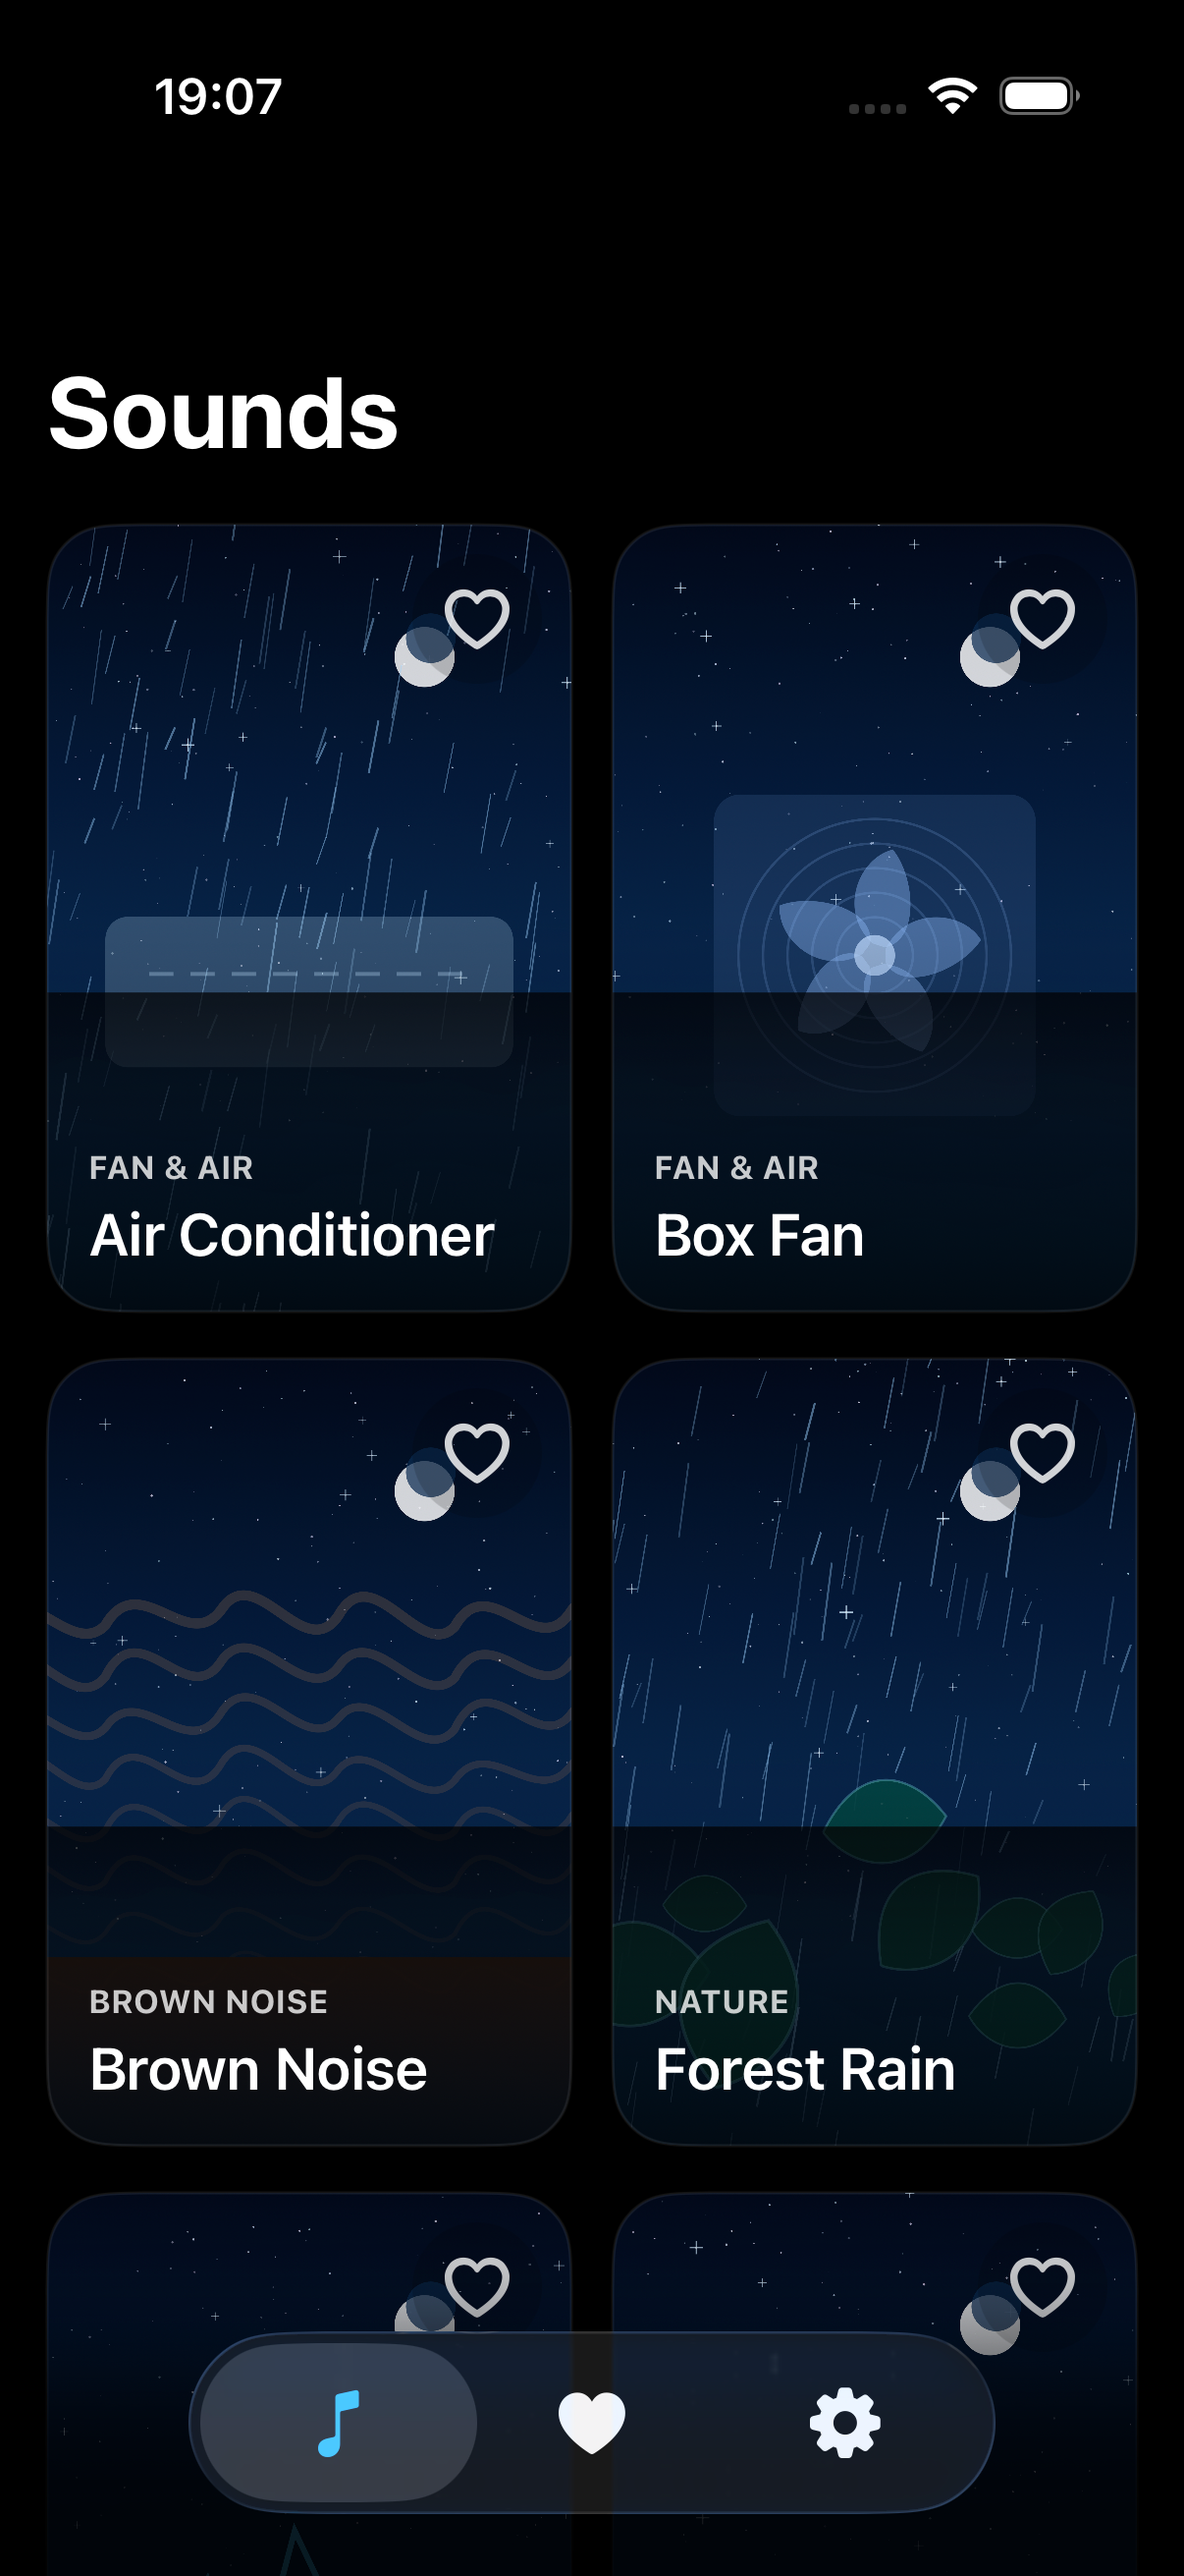
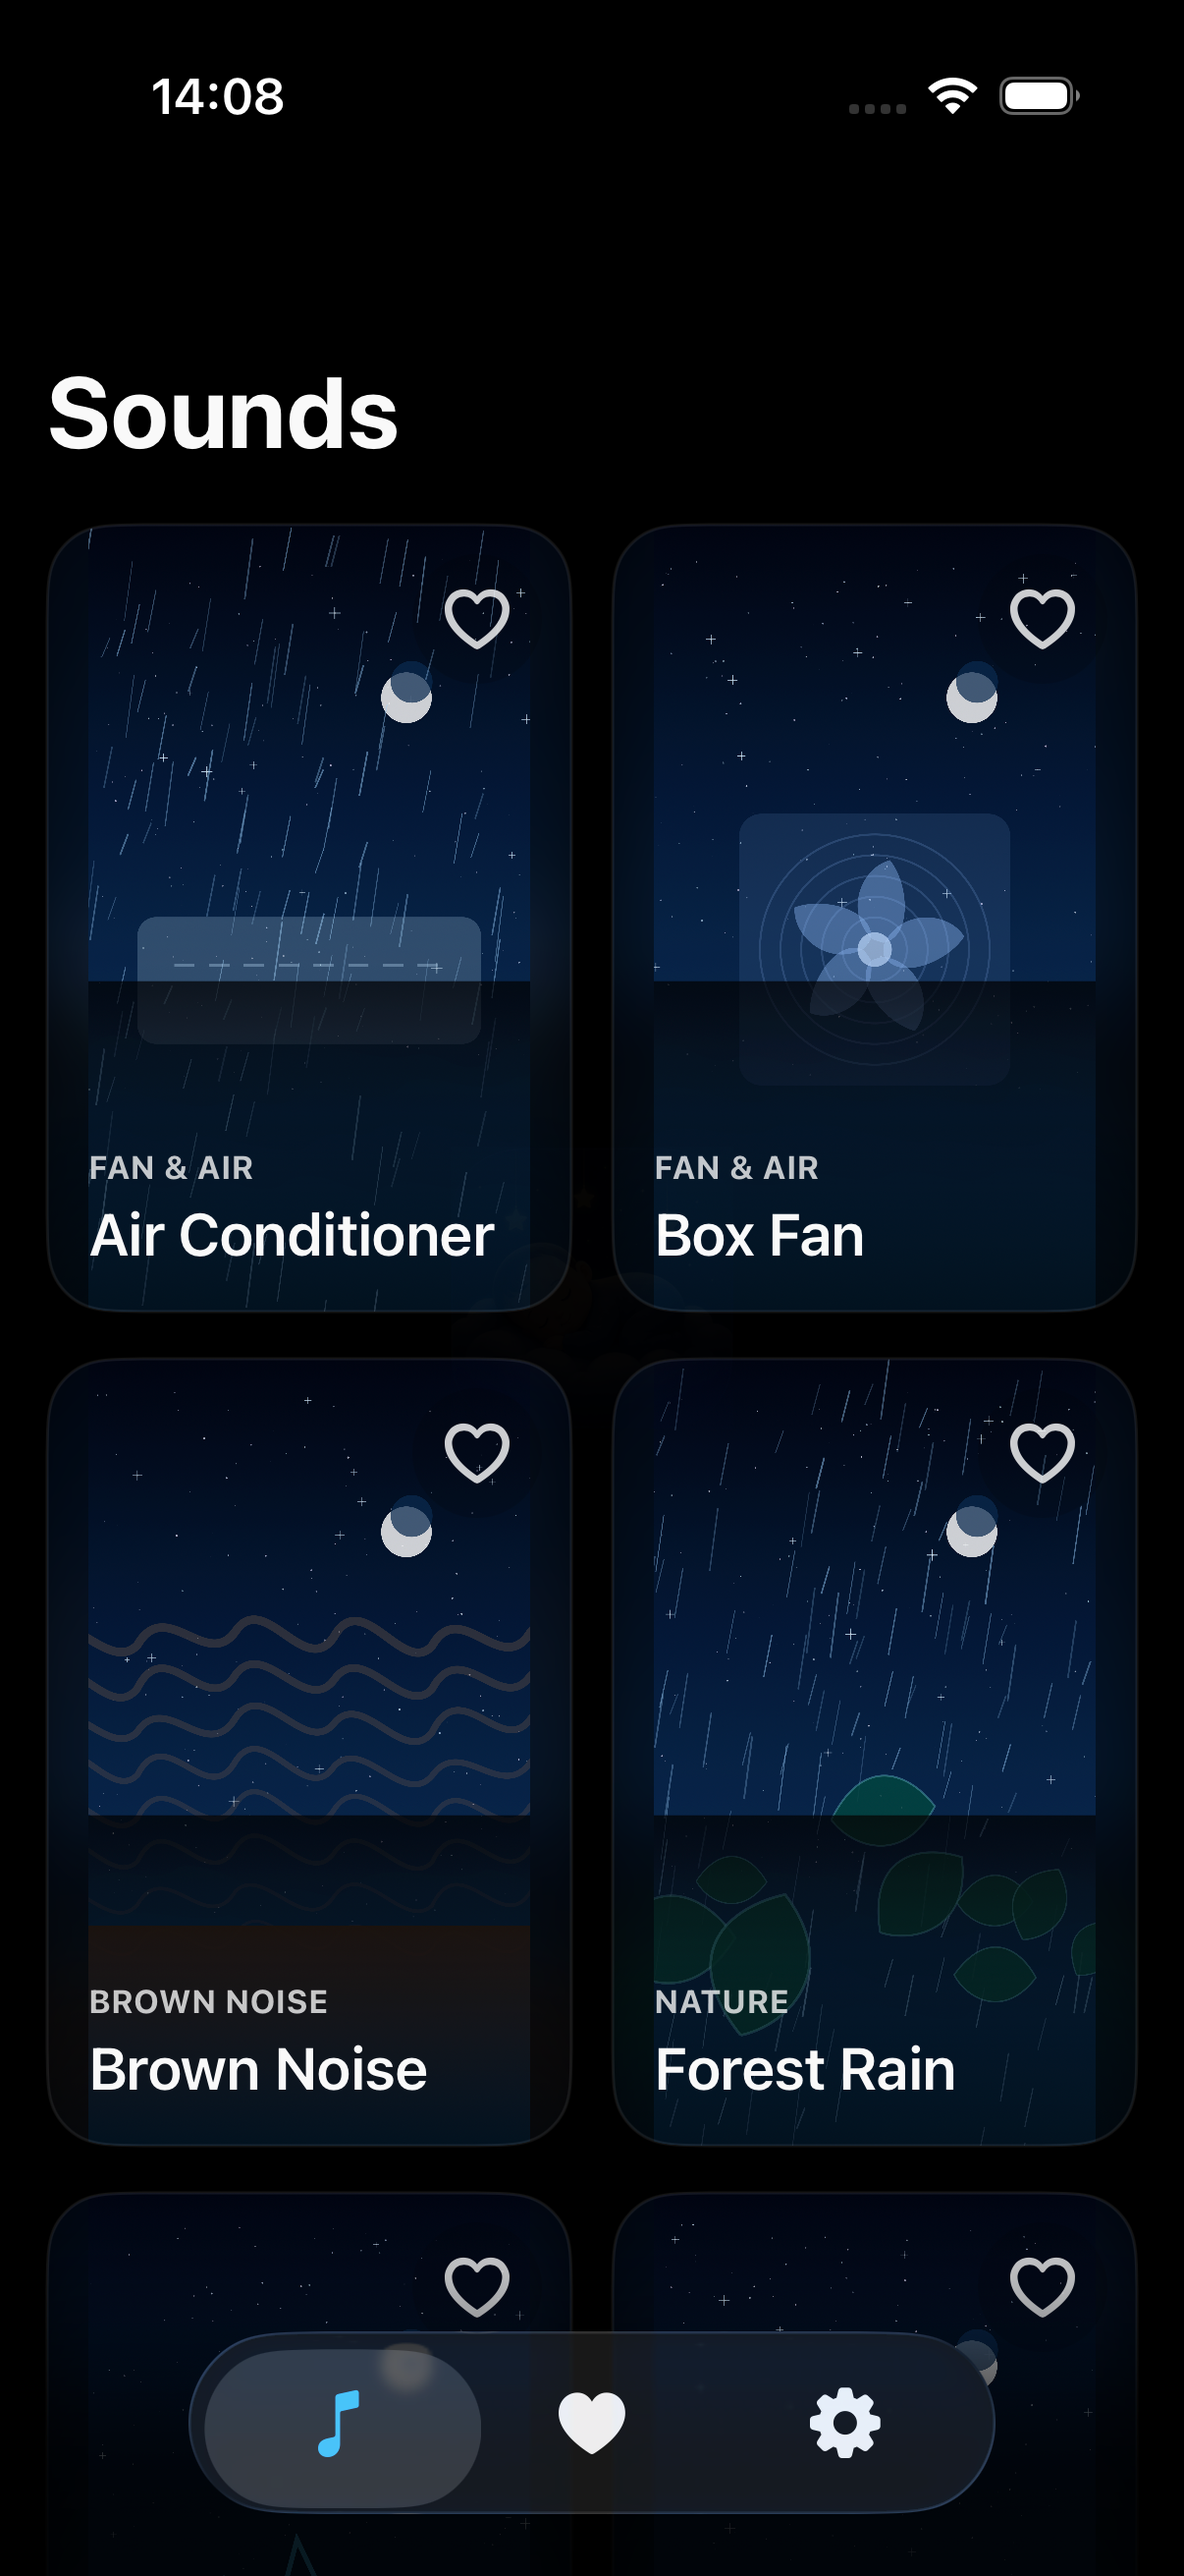
Polish artwork layout and onboarding screenshot

diff --git a/BabySoundsApp/ContentView.swift b/BabySoundsApp/ContentView.swift
@@ -81,10 +81,15 @@ struct ContentView: View {
     @StateObject private var premiumManager = PremiumManager.shared
     @StateObject private var favoritesManager = FavoritesManager.shared
     @AppStorage("HasCompletedOnboarding") private var hasCompletedOnboarding = false
+    @State private var selectedSound: RealSound?
+    @State private var showingPremiumSheet = false
 
     var body: some View {
         TabView {
-            SoundsView()
+            SoundsView(
+                onSelectSound: { selectedSound = $0 },
+                onPremiumRequired: { showingPremiumSheet = true }
+            )
                 .environmentObject(soundManager)
                 .environmentObject(premiumManager)
                 .tabItem {
@@ -92,7 +97,7 @@ struct ContentView: View {
                         .accessibilityLabel("Sounds")
                 }
 
-            FavoritesView()
+            FavoritesView(onSelectSound: { selectedSound = $0 })
                 .environmentObject(soundManager)
                 .environmentObject(premiumManager)
                 .environmentObject(favoritesManager)
@@ -110,11 +115,39 @@ struct ContentView: View {
                 }
         }
         .tint(AppTheme.accent)
+        .overlay(alignment: .bottom) {
+            if soundManager.currentSound != nil {
+                NowPlayingBar { sound in
+                    selectedSound = sound
+                }
+                .environmentObject(soundManager)
+                .padding(.bottom, 74)
+            }
+        }
         .onAppear {
             soundManager.initializeAudio()
         }
         .onOpenURL { url in
             soundManager.handleDeepLink(url)
+        }
+        .onReceive(soundManager.$deepLinkedSound.compactMap { $0 }) { sound in
+            if sound.premium, !premiumManager.isPremium {
+                showingPremiumSheet = true
+            } else {
+                selectedSound = sound
+            }
+            soundManager.deepLinkedSound = nil
+        }
+        .sheet(item: $selectedSound) { sound in
+            PlayerView(sound: sound)
+                .environmentObject(soundManager)
+                .environmentObject(premiumManager)
+                .presentationDetents([.large])
+                .presentationDragIndicator(.visible)
+        }
+        .sheet(isPresented: $showingPremiumSheet) {
+            PremiumUpgradeView()
+                .environmentObject(premiumManager)
         }
         .fullScreenCover(isPresented: Binding(
             get: { !hasCompletedOnboarding },
@@ -136,8 +169,8 @@ struct SoundsView: View {
     @EnvironmentObject var soundManager: RealSoundManager
     @EnvironmentObject var premiumManager: PremiumManager
     @StateObject private var favoritesManager = FavoritesManager.shared
-    @State private var selectedSound: RealSound?
-    @State private var showingPremiumSheet = false
+    let onSelectSound: (RealSound) -> Void
+    let onPremiumRequired: () -> Void
 
     private var sortedSounds: [RealSound] {
         soundManager.allSounds.sorted { first, second in
@@ -156,9 +189,9 @@ struct SoundsView: View {
                 isFavorite: { favoritesManager.isFavorite($0) },
                 onTap: { sound in
                     if sound.premium, !premiumManager.isPremium {
-                        showingPremiumSheet = true
+                        onPremiumRequired()
                     } else {
-                        selectedSound = sound
+                        onSelectSound(sound)
                     }
                 },
                 onFavoriteTap: { sound in
@@ -166,35 +199,8 @@ struct SoundsView: View {
                 }
             )
             .navigationTitle("Sounds")
-            .safeAreaInset(edge: .bottom) {
-                if soundManager.currentSound != nil {
-                    NowPlayingBar { sound in
-                        selectedSound = sound
-                    }
-                        .environmentObject(soundManager)
-                }
-            }
         }
         .navigationViewStyle(StackNavigationViewStyle())
-        .sheet(item: $selectedSound) { sound in
-            PlayerView(sound: sound)
-                .environmentObject(soundManager)
-                .environmentObject(premiumManager)
-                .presentationDetents([.large])
-                .presentationDragIndicator(.visible)
-        }
-        .sheet(isPresented: $showingPremiumSheet) {
-            PremiumUpgradeView()
-                .environmentObject(premiumManager)
-        }
-        .onReceive(soundManager.$deepLinkedSound.compactMap { $0 }) { sound in
-            if sound.premium, !premiumManager.isPremium {
-                showingPremiumSheet = true
-            } else {
-                selectedSound = sound
-            }
-            soundManager.deepLinkedSound = nil
-        }
     }
 }
 
@@ -251,16 +257,26 @@ struct SoundCard: View {
         Button(action: onTap) {
             GeometryReader { proxy in
                 ZStack(alignment: .topTrailing) {
-                    BundledArtwork(name: sound.artworkName)
-                        .frame(width: proxy.size.width, height: proxy.size.height)
-                        .clipped()
-                        .overlay(alignment: .bottom) {
-                            LinearGradient(
-                                colors: [.clear, .black.opacity(0.24), .black.opacity(0.72)],
-                                startPoint: .center,
-                                endPoint: .bottom
-                            )
-                        }
+                    ZStack {
+                        BundledArtwork(name: sound.artworkName)
+                            .frame(width: proxy.size.width, height: proxy.size.height)
+                            .opacity(0.58)
+                            .blur(radius: 14)
+                            .scaleEffect(1.12)
+
+                        BundledArtwork(name: sound.artworkName, contentMode: .fit)
+                            .frame(width: proxy.size.width, height: proxy.size.height)
+                    }
+                    .background(Color.black)
+                    .frame(width: proxy.size.width, height: proxy.size.height)
+                    .clipped()
+                    .overlay(alignment: .bottom) {
+                        LinearGradient(
+                            colors: [.clear, .black.opacity(0.12), .black.opacity(0.58)],
+                            startPoint: .center,
+                            endPoint: .bottom
+                        )
+                    }
 
                     Button(action: onFavoriteTap) {
                         Image(systemName: isFavorite ? "heart.fill" : "heart")
@@ -1004,12 +1020,13 @@ struct TimerDialView: View {
 
 struct BundledArtwork: View {
     let name: String
+    var contentMode: ContentMode = .fill
 
     var body: some View {
-        if let image = UIImage.bundledDesignAsset(named: name) {
+        if let image = UIImage.bundledArtwork(named: name) {
             Image(uiImage: image)
                 .resizable()
-                .scaledToFill()
+                .aspectRatio(contentMode: contentMode)
         } else {
             LinearGradient(
                 colors: [.blue.opacity(0.32), .indigo.opacity(0.22)],
@@ -1021,15 +1038,17 @@ struct BundledArtwork: View {
 }
 
 private extension UIImage {
-    static func bundledDesignAsset(named name: String) -> UIImage? {
+    static func bundledArtwork(named name: String) -> UIImage? {
         let bundle = Bundle.main
 
-        let candidates = [
+        let directAsset = UIImage(named: name)
+        let fileURLs = [
             bundle.url(forResource: name, withExtension: "png", subdirectory: "DesignAssets"),
+            bundle.url(forResource: name, withExtension: nil, subdirectory: "DesignAssets"),
             bundle.url(forResource: name, withExtension: "png")
         ]
 
-        return candidates
+        return directAsset ?? fileURLs
             .compactMap { $0 }
             .lazy
             .compactMap { UIImage(contentsOfFile: $0.path) }
@@ -1332,7 +1351,7 @@ struct FavoritesView: View {
     @EnvironmentObject var soundManager: RealSoundManager
     @EnvironmentObject var premiumManager: PremiumManager
     @StateObject private var favoritesManager = FavoritesManager.shared
-    @State private var selectedSound: RealSound?
+    let onSelectSound: (RealSound) -> Void
 
     var favoriteSounds: [RealSound] {
         soundManager.allSounds
@@ -1356,7 +1375,7 @@ struct FavoritesView: View {
                         isPlaying: { soundManager.isPlaying($0.id) },
                         isFavorite: { _ in true },
                         onTap: { sound in
-                            selectedSound = sound
+                            onSelectSound(sound)
                         },
                         onFavoriteTap: { sound in
                             favoritesManager.toggleFavorite(sound)
@@ -1366,23 +1385,8 @@ struct FavoritesView: View {
             }
             .navigationTitle("Favorites")
             .navigationBarTitleDisplayMode(.large)
-            .safeAreaInset(edge: .bottom) {
-                if soundManager.currentSound != nil {
-                    NowPlayingBar { sound in
-                        selectedSound = sound
-                    }
-                    .environmentObject(soundManager)
-                }
-            }
         }
         .navigationViewStyle(StackNavigationViewStyle())
-        .sheet(item: $selectedSound) { sound in
-            PlayerView(sound: sound)
-                .environmentObject(soundManager)
-                .environmentObject(premiumManager)
-                .presentationDetents([.large])
-                .presentationDragIndicator(.visible)
-        }
     }
 }
 
